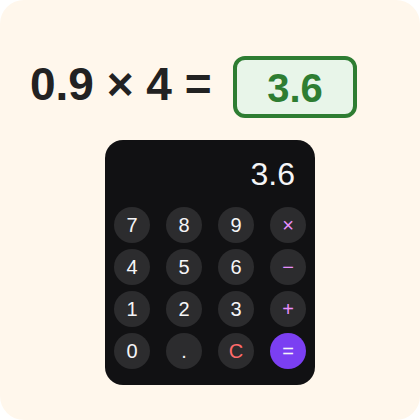
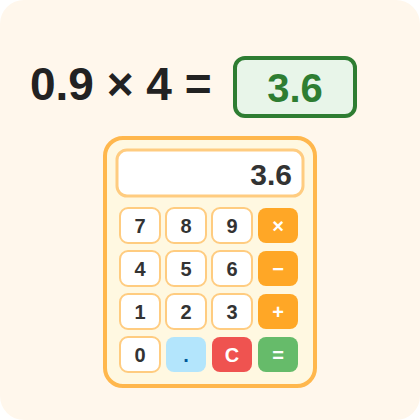
game(MA4151): 計算機改用適合小學生的配色並放大計算過程
- 計算紀錄與目前算式字級放大 2 倍
- 計算機改為明亮配色：米黃底、白色數字鍵、橘色運算鍵、紅色清除、綠色等號，
  圓角方鍵；螢幕較矮時按鍵壓扁，平板 1024×700 仍完整顯示
- 只在本遊戲以 scoped 樣式覆寫，SimpleCalculator 預設樣式不變
- 縮圖改用新配色

Claude-Session: https://claude.ai/code/session_012ZW66BmPEj1b9mU7xBzegW

diff --git a/src/features/games-oneoff/Grade4/games/CalculatorQuestion/CalculatorQuestion.vue b/src/features/games-oneoff/Grade4/games/CalculatorQuestion/CalculatorQuestion.vue
@@ -189,12 +189,111 @@ export default {
 }
 
 .calculator-panel {
-  // 按鍵是正圓，寬度決定高度；依視窗高度縮放，讓顯示區在平板上也看得到
-  width: min(18rem, calc(80vh - 312px));
-  min-width: 13rem;
+  width: 20rem;
   flex-shrink: 0;
   display: flex;
   flex-direction: column;
   min-height: 0;
+}
+
+// 適合小學生的明亮配色；只在本遊戲覆寫，不改 SimpleCalculator 預設樣式
+.calculator-panel :deep(.calc-root) {
+  background: #fff8e1;
+  border: 4px solid #ffb74d;
+  border-radius: 20px;
+  font-family: inherit;
+}
+
+// 計算過程（計算紀錄與目前算式）字級放大 2 倍
+.calculator-panel :deep(.calc-history) {
+  min-height: 0;
+  padding: 8px 14px 0;
+
+  .calc-history__hint {
+    font-size: 1.6rem;
+    color: #bcaaa4;
+  }
+
+  .calc-history__item {
+    font-size: 1.9rem;
+    font-weight: $font-bold;
+    color: #6d4c41;
+    line-height: 1.3;
+  }
+}
+
+.calculator-panel :deep(.calc-display) {
+  margin: 0 10px;
+  padding: 4px 12px 6px;
+  background: #ffffff;
+  border: 3px solid #ffcc80;
+  border-radius: 12px;
+
+  .calc-display__expr {
+    font-size: 2rem;
+    font-weight: $font-bold;
+    color: #1e88e5;
+  }
+
+  .calc-display__value {
+    color: #333333;
+    font-weight: $font-bold;
+  }
+}
+
+.calculator-panel :deep(.calc-divider) {
+  display: none;
+}
+
+.calculator-panel :deep(.calc-keypad) {
+  gap: 8px;
+  padding: 10px;
+}
+
+.calculator-panel :deep(.calc-btn) {
+  aspect-ratio: auto;
+  height: 3rem;
+  padding: 0;
+  line-height: 1;
+  border-radius: 14px;
+  font-size: 1.6rem;
+  font-weight: $font-bold;
+  box-shadow: 0 3px 0 rgba(0, 0, 0, 0.18);
+
+  &.--num {
+    background: #ffffff;
+    color: #333333;
+    border: 2px solid #ffcc80;
+  }
+
+  &.--op {
+    background: #ffa726;
+    color: #ffffff;
+  }
+
+  &.--fn {
+    background: #b3e5fc;
+    color: #01579b;
+  }
+
+  &.--clear {
+    background: #ef5350;
+    color: #ffffff;
+  }
+
+  &.--equal {
+    background: #66bb6a;
+    color: #ffffff;
+    font-size: 1.9rem;
+    box-shadow: 0 3px 0 #388e3c;
+  }
+}
+
+// 螢幕較矮（平板）時按鍵壓扁一些，留空間給放大的計算過程
+@media (max-height: 760px) {
+  .calculator-panel :deep(.calc-btn) {
+    height: 2.3rem;
+    font-size: 1.4rem;
+  }
 }
 </style>
